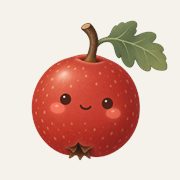
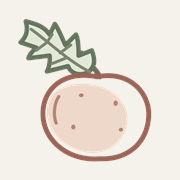
统一 G 手绘山楂与 Lora 品牌并更新 Windows 桌面包

diff --git a/src/App.tsx b/src/App.tsx
@@ -271,8 +271,8 @@ export default function App() {
   const disabled = status === 'loading' || status === 'saving' || loadError.current
   const isBlank = !journal.moments.length && !journal.goals.length && !journal.funds.length
   return <div className="app-shell">
-    <aside className="sidebar"><button className="brand" onClick={() => navigate('home')} aria-label="HawTend，返回我的手账"><span className="brand-symbol"><BrandMark size={44} /></span><span>HawTend<small>照料生活，慢慢生长</small></span></button><span className="sidebar-label">属于你的日子</span><nav aria-label="主要导航">{navItems.map(n => <button key={n.id} className={`nav-item ${page === n.id ? 'active' : ''}`} aria-current={page === n.id ? 'page' : undefined} onClick={() => navigate(n.id)}><Icon name={n.icon} />{n.label}{page === n.id && <span className="nav-dot" />}</button>)}</nav><div className="sidebar-note"><Icon name="sprout" size={27} /><p>不必把每一天填满，<br />慢慢走，也是在向前。</p><span>给未来的自己</span></div><div className="sidebar-bottom"><button className="settings-link" onClick={() => setPanel({ type: 'settings' })}><Icon name="settings" size={18} />手账设置</button><div className="profile"><span className="avatar">我</span><div><strong>我的人生手账</strong><small>{sampleMode ? "样例体验 · 虚构数据" : "个人空间 · 本机手账"}</small></div></div></div></aside>
-    <main className="main"><header className="topbar"><div className="breadcrumb">我的空间<span>/</span>{navItems.find(n => n.id === page)?.label}</div><span className="mobile-brand"><BrandMark size={29} />HawTend</span><div className="topbar-actions"><span className={`save-status ${status === 'failed' ? 'failed' : ''}`} role="status"><span className="status-dot" />{sampleMode ? '样例体验' : status === 'loading' ? '正在打开手账' : status === 'saving' ? '正在保存' : status === 'failed' ? '本地保存不可用' : !online ? '离线 · 本机保存' : '仅本机保存'}</span><button className="icon-button mobile-settings" aria-label="手账设置" onClick={() => setPanel({ type: 'settings' })}><Icon name="settings" size={18} /></button><button className="primary-button top-record" disabled={disabled} onClick={() => setPanel({ type: 'new' })}><Icon name="plus" size={17} />记下一刻</button></div></header>
+    <aside className="sidebar"><button className="brand" onClick={() => navigate('home')} aria-label="HawTend，返回我的手账"><span className="brand-symbol"><BrandMark size={36} /></span><span>HawTend<small>照料生活，慢慢生长</small></span></button><span className="sidebar-label">属于你的日子</span><nav aria-label="主要导航">{navItems.map(n => <button key={n.id} className={`nav-item ${page === n.id ? 'active' : ''}`} aria-current={page === n.id ? 'page' : undefined} onClick={() => navigate(n.id)}><Icon name={n.icon} />{n.label}{page === n.id && <span className="nav-dot" />}</button>)}</nav><div className="sidebar-note"><Icon name="sprout" size={27} /><p>不必把每一天填满，<br />慢慢走，也是在向前。</p><span>给未来的自己</span></div><div className="sidebar-bottom"><button className="settings-link" onClick={() => setPanel({ type: 'settings' })}><Icon name="settings" size={18} />手账设置</button><div className="profile"><span className="avatar">我</span><div><strong>我的人生手账</strong><small>{sampleMode ? "样例体验 · 虚构数据" : "个人空间 · 本机手账"}</small></div></div></div></aside>
+    <main className="main"><header className="topbar"><div className="breadcrumb">我的空间<span>/</span>{navItems.find(n => n.id === page)?.label}</div><span className="mobile-brand"><BrandMark size={28} />HawTend</span><div className="topbar-actions"><span className={`save-status ${status === 'failed' ? 'failed' : ''}`} role="status"><span className="status-dot" />{sampleMode ? '样例体验' : status === 'loading' ? '正在打开手账' : status === 'saving' ? '正在保存' : status === 'failed' ? '本地保存不可用' : !online ? '离线 · 本机保存' : '仅本机保存'}</span><button className="icon-button mobile-settings" aria-label="手账设置" onClick={() => setPanel({ type: 'settings' })}><Icon name="settings" size={18} /></button><button className="primary-button top-record" disabled={disabled} onClick={() => setPanel({ type: 'new' })}><Icon name="plus" size={17} />记下一刻</button></div></header>
       <div className="content"><div className="prototype-note"><span>{sampleMode ? '样例手账 · 虚构内容' : '我的手账 · 本机空间'}</span><button className="text-button" disabled={disabled} onClick={switchSample}>{sampleMode ? '回到我的手账' : '看看样例'}<Icon name="arrow" size={13} /></button></div>
       {sampleMode && <section className="sample-banner" aria-label="样例体验说明"><Icon name="book" size={23} /><div><strong>这是一本用来体验的样例手账</strong><p>可以自由试试。这里的修改不会保存，也不会加入你的个人手账。</p></div></section>}
       {status === 'failed' && <div className="notice" role="alert">{loadError.current ? '本地手账读取失败，暂不显示已存内容并暂停写入，防止覆盖已有数据。请刷新重试。' : '刚才的修改未保存，请在详情中重试。原有记录仍保留。'} <button className="text-button" onClick={exportData}>导出当前内容</button></div>}

diff --git a/src/styles.css b/src/styles.css
@@ -32,10 +32,10 @@ input, textarea, select { max-width: 100%; }
 svg { vertical-align: middle; }
 .app-shell { min-height: 100vh; }
 .sidebar { width: 232px; height: 100dvh; position: fixed; inset: 0 auto 0 0; padding: 39px 23px 20px; background: var(--sidebar); border-right: 1px solid var(--line); display: flex; flex-direction: column; z-index: 10; }
-.brand { display: flex; gap: 8px; align-items: center; text-align: left; padding: 0 0 42px 0; font-family: Georgia, 'Times New Roman', serif; font-size: 26px; font-weight: 600; letter-spacing: -.9px; white-space: nowrap; }
-.brand-symbol { width: 44px; height: 48px; display: grid; place-items: center; flex-shrink: 0; }
+.brand { display: flex; gap: 11px; align-items: center; text-align: left; padding: 0 0 42px 0; font-family: var(--brand-font); font-size: 25px; font-weight: var(--brand-weight); letter-spacing: var(--brand-tracking); color: var(--brand-color); font-optical-sizing: auto; white-space: nowrap; }
+.brand-symbol { width: 36px; height: 44px; display: grid; place-items: center; flex-shrink: 0; }
 .brand-mark { display: block; object-fit: contain; flex-shrink: 0; }
-.brand small { display: block; margin-top: 8px; font: 10px/1.4 'Microsoft YaHei', sans-serif; letter-spacing: 1px; color: var(--muted); }
+.brand small { display: block; margin-top: 7px; font: 9px/1.4 'Microsoft YaHei', sans-serif; letter-spacing: .5px; color: #818778; }
 .sidebar-label { font-size: 10px; color: var(--muted); padding: 0 14px 15px; letter-spacing: 2px; }
 .sidebar nav { display: flex; flex-direction: column; gap: 9px; }
 .nav-item { display: flex; align-items: center; gap: 13px; min-height: 49px; padding: 11px 15px; text-align: left; font-size: 14px; border-radius: 9px; color: #6b7365; }
@@ -337,7 +337,6 @@ input[type='range'] { accent-color: var(--accent); height: 24px; cursor: pointer
 @media (min-width: 1600px) { .welcome { padding: 37px 50px; } .welcome h1 { font-size: 43px; } .landscape { max-width: 400px; } }
 @media (max-width: 1200px) and (min-width: 761px) {
   .sidebar { width: 200px; padding: 32px 17px 20px; } .main { margin-left: 200px; } .topbar { margin: 0 29px; } .content { padding: 23px 29px 0; }
-  .brand { padding-left: 0; gap: 6px; font-size: 24px; } .brand small { font-size: 9px; letter-spacing: 0; }
   .welcome { padding: 29px 27px; gap: 15px; } .welcome h1 { font-size: 30px; }
   .overview-stats { gap: 0; } .overview-stats > div { padding: 0 14px; } .overview-stats strong { font-size: 28px; }
   .home-bottom { gap: 21px; } .section-heading h2 { font-size: 17px; } .reflection-card { padding: 18px; }
@@ -350,7 +349,7 @@ input[type='range'] { accent-color: var(--accent); height: 24px; cursor: pointer
   .sidebar, .breadcrumb, .top-record { display: none; }
   .main { margin-left: 0; }
   .topbar { height: 67px; margin: 0 22px; gap: 10px; }
-  .mobile-brand { display: flex; align-items: center; gap: 6px; color: var(--accent); font: 600 22px Georgia, 'Times New Roman', serif; letter-spacing: -.8px; white-space: nowrap; }
+  .mobile-brand { display: flex; align-items: center; gap: 7px; color: var(--brand-color); font: var(--brand-weight) 21px var(--brand-font); letter-spacing: var(--brand-tracking); font-optical-sizing: auto; white-space: nowrap; }
   .mobile-settings { display: inline-flex; }
   .icon-button, .primary-button, .quiet-button { min-height: 44px; }
   .icon-button { min-width: 44px; }

diff --git a/index.html b/index.html
@@ -7,8 +7,8 @@
     <meta name="description" content="HawTend，把目标、积蓄与值得记住的日子，放在同一条人生时间轴上。" />
     <meta name="apple-mobile-web-app-capable" content="yes" />
     <meta name="apple-mobile-web-app-status-bar-style" content="default" />
-    <link rel="icon" type="image/png" sizes="32x32" href="/hawtend-favicon-32.png" />
-    <link rel="apple-touch-icon" sizes="180x180" href="/hawtend-apple-touch-180.png" />
+    <link rel="icon" type="image/png" sizes="32x32" href="/hawtend-favicon-32.png?v=g1" />
+    <link rel="apple-touch-icon" sizes="180x180" href="/hawtend-apple-touch-180.png?v=g1" />
     <link rel="manifest" href="/manifest.webmanifest" />
     <title>HawTend · 人生手账</title>
   </head>

diff --git a/src/Icons.tsx b/src/Icons.tsx
@@ -1,9 +1,8 @@
 import type { CSSProperties } from 'react'
-import hawtendMark from './assets/hawtend-mark-128.png'
-import { brandPreview, brandProposals } from './brand-proposals'
+import hawtendMark from './assets/hawtend-mark.svg'
 
 export function BrandMark({ size = 40 }: { size?: number }) {
-  return <img className="brand-mark" src={brandPreview ? brandProposals[brandPreview].mark : hawtendMark} width={size} height={size} alt="" aria-hidden="true" draggable={false} />
+  return <img className="brand-mark" src={hawtendMark} width={size} height={size} alt="" aria-hidden="true" draggable={false} />
 }
 
 export function Icon({ name, size = 20, style, className }: { name: string; size?: number; style?: CSSProperties; className?: string }) {

diff --git a/src/main.tsx b/src/main.tsx
@@ -2,10 +2,7 @@ import React from 'react'
 import ReactDOM from 'react-dom/client'
 import App from './App'
 import './styles.css'
-import './brand-proposals.css'
-import { brandPreview } from './brand-proposals'
-
-if (brandPreview) document.documentElement.dataset.brandPreview = brandPreview
+import './brand.css'
 
 ReactDOM.createRoot(document.getElementById('root')!).render(<React.StrictMode><App /></React.StrictMode>)
 

diff --git a/src/brand.css b/src/brand.css
@@ -1,0 +1,18 @@
+@font-face {
+  font-family: 'HawLora';
+  src: url('./assets/fonts/lora-latin.woff2') format('woff2');
+  font-style: normal;
+  font-weight: 400 600;
+  font-display: swap;
+}
+
+:root {
+  --brand-font: 'HawLora', serif;
+  --brand-weight: 450;
+  --brand-tracking: -.65px;
+  --brand-color: #506455;
+}
+
+@media (max-width: 360px) {
+  .mobile-brand { font-size: 20px; }
+}

diff --git a/windows/HawTend.cs b/windows/HawTend.cs
@@ -13,7 +13,7 @@ using System.Windows.Forms;
 
 [assembly: AssemblyTitle("HawTend")]
 [assembly: AssemblyDescription("HawTend 人生手账 · 本地桌面原型")]
-[assembly: AssemblyVersion("0.0.2.0")]
+[assembly: AssemblyVersion("0.0.3.0")]
 
 internal static class Program
 {

diff --git a/docs/14-G品牌统一与桌面更新.md b/docs/14-G品牌统一与桌面更新.md
@@ -1,0 +1,59 @@
+# HawTend：G 品牌统一与桌面更新
+
+日期：2026-10-05。用户确认“用方案 G，统一成这个”。默认应用现使用 **G 细线手绘山楂 + Lora 字体**。
+
+## 统一范围
+
+- 桌面侧栏与手机页头：保留已审阅的叶片、淡色果实与细线轮廓，字标使用本地 Lora、字重 450。
+- 浏览器 favicon、Apple 主屏幕图标、PWA 常规与可裁切图标：由同一份 SVG 生成，背景采用暖纸色。
+- Windows 0.0.3.0：内置新版页面、离线字体与图标；EXE 与托盘共享 G 图标资源，ICO 包含 16、32、48、256px 四个尺寸。
+- 默认网址与所有历史 `?brand=` 链接统一显示 G，候选切换代码已移除。历史图案和静态对照图继续保留。
+
+当前入口：[本机应用](http://127.0.0.1:4173/)、[Windows EXE](../releases/windows/HawTend.exe)。手机需后续 HTTPS 托管才能安装，当前手机截图是 Chromium 视口预览。
+
+个人记录、旧数据库与存储键未修改。个人手账继续从空白开始；“看看样例”继续使用独立的虚构内容。此次没有接入登录、云同步或部署云项目。
+
+## 资产与维护
+
+| 文件 | 作用 |
+| --- | --- |
+| [canonical SVG](../src/assets/hawtend-mark.svg) | 应用实际使用的矢量标记，与审阅时 G 的图形完全相同 |
+| [公开 SVG](../public/brand/hawtend-logo.svg) | 同源分发的矢量副本 |
+| [1024px 透明母版](../public/brand/hawtend-logo-source-1024.png) | 浏览器栅格化 SVG 得到，供图标缩放 |
+| [256px 透明 Logo](../public/brand/hawtend-logo-256.png) | 常规图案导出 |
+| [字标样式](../src/brand.css) | 自托管 Lora 和统一字体参数 |
+| [字体许可](../public/brand/font-licenses/Lora-OFL.txt) | 保留原字体许可；运行时无需外部字体请求 |
+
+`scripts/build-brand-icons.ps1` 通过 Playwright 将 SVG 渲染为透明母版，再用系统图像库生成各尺寸。没有重新绘制用户选定的图案。可裁切图标以 68% 画布尺寸绘制，图案位于中央 80% 直径的安全圆内，背景完全不透明。
+
+HTML 和清单中的图标地址增加 `?v=g1`，静态资源离线匹配忽略查询参数，已检查这些地址在断网时仍可加载。已安装的主屏幕图标和 Windows 图标是否即时刷新仍由系统缓存决定，本次没有验证 iPhone 实际安装。
+
+维护时由助手运行，Playwright CLI 需位于当前终端 PATH：
+
+```powershell
+$env:PATH = 'C:\Users\19620\.codex\tools\life-app-toolchain\node_modules\.bin;' + $env:PATH
+powershell.exe -NoProfile -ExecutionPolicy Bypass -File scripts/build-brand-icons.ps1
+npm run build
+powershell.exe -NoProfile -ExecutionPolicy Bypass -File scripts/build-windows.ps1 -SkipWebBuild
+powershell.exe -NoProfile -ExecutionPolicy Bypass -File scripts/inspect-windows-package.ps1
+```
+
+## 验证与交付
+
+| 检查 | 结果 |
+| --- | --- |
+| TypeScript、生产构建与 Windows 编译 | 通过 |
+| 默认页头 | 320、390、768、1024、1440px 均无页面横向溢出、品牌裁切或状态区重叠 |
+| 四个页面 | 桌面 1440px 与手机 390px 均使用 G + Lora，无页面横向溢出 |
+| 历史链接 | A/B/C/D/AC/A2/E/F/G/H 均显示统一的 G |
+| 离线重载 | 图案、Lora 和五个带版本查询参数的浏览器 / 安装图标正常显示，未捕获脚本或控制台错误 |
+| 图标文件 | 透明母版正常；可裁切图标完全不透明，图案未超出安全圆；ICO 四个尺寸有效 |
+| EXE 内置资源 | 只读反射检查通过；23 个内置文件的 SHA-256 均与生产构建一致，内置图标与生成的 ICO 一致 |
+
+本次尝试独立启动新版 EXE 的命令被自动审批拒绝，未执行。改用 .NET `ReflectionOnlyLoadFrom` 读取资源，不运行程序入口；页面显示在现有本机预览中检查。新版独立窗口启动、托盘退出和 iPhone Safari 实机检查没有因此被验证。首版的独立启动与存储测试记录见 [桌面版说明](10-Windows桌面版与空白手账.md)。
+
+当前 EXE：版本 **0.0.3.0**，**3,079,168 字节，约 2.94 MiB**。
+
[1 lines of base64/hex data omitted]
+
+本机截图：[空白桌面](../output/playwright/hawtend-approved-empty-1440.png)、[空白手机](../output/playwright/hawtend-approved-empty-390.png)、[样例桌面](../output/playwright/hawtend-approved-sample-1440.png)、[样例手机](../output/playwright/hawtend-approved-sample-390.png)。已目视检查桌面与手机效果；截图、构建产物与验证辅助文件位于忽略目录，不上传个人数据。

diff --git a/README.md b/README.md
@@ -1,6 +1,6 @@
 # HawTend · 人生管理 App
 
-整体需求审阅通过，用户已同意进入下一阶段。当前处于第 0 期：视觉设计、交互原型与可行性验证。用户已确认名称 **HawTend** 与 Lora 字体；A2 图案被要求重新设计，四种山楂风格等待审阅。本地 PWA 已更新名称，默认安装图标仍为首版。Supabase 账号连接已验证，免费项目与同步基础代码已准备；应用仍只保存本地数据。
+整体需求审阅通过，用户已同意进入下一阶段。当前处于第 0 期：视觉设计、交互原型与可行性验证。用户已确认名称 **HawTend**、**G 细线手绘山楂图案与 Lora 字体**；默认页面、手机页头、浏览器与 PWA 安装图标、Windows EXE 已统一更新。Supabase 账号连接已验证，免费项目与同步基础代码已准备；应用仍只保存本地数据。
 
 已确认：先供本人使用；界面温暖、有生活感，接近个人手账；Windows 与 iPhone 支持云端同步；UI 和交互质量为核心要求。
 
@@ -20,11 +20,11 @@
 
 GitHub 网页授权已成功，已创建 [Flying-Angels/hawtend](https://github.com/Flying-Angels/hawtend) 私有仓库并配置 `origin`；代码、文档和品牌资产已推送到 `main` 与 `codex/phase0-prototype`，见 [GitHub 接入记录](docs/07-GitHub版本管理接入.md)。依赖、构建产物、截图、个人账单、健康报告及密钥排除在版本库之外。Logo 原图、生成提示词和实际界面检查见 [HawTend 品牌与 Logo](docs/08-HawTend品牌与Logo.md)。
 
-当前品牌审阅：见 [山楂重新设计与四种风格](docs/13-山楂重新设计与四种风格.md)。可打开 [E 自然植物插画](http://127.0.0.1:4173/?brand=e)、[F 极简色块](http://127.0.0.1:4173/?brand=f)、[G 细线手绘](http://127.0.0.1:4173/?brand=g)、[H 单色版画](http://127.0.0.1:4173/?brand=h)。字体统一为已选定的 Lora；[首轮候选](docs/11-品牌候选与整页效果.md) 与 [A2](docs/12-山楂枝叶优化版.md) 保留历史记录。预览不修改保存设置或个人记录；默认品牌、安装图标和现有 EXE 待图标选定后统一更新。
+当前品牌已定稿：见 [G 品牌统一与桌面更新](docs/14-G品牌统一与桌面更新.md)，直接打开 [HawTend](http://127.0.0.1:4173/) 即为最终 G + Lora。所有旧 `?brand=` 链接也统一显示 G，不再切换候选。[四种风格](docs/13-山楂重新设计与四种风格.md)、[首轮候选](docs/11-品牌候选与整页效果.md) 与 [A2](docs/12-山楂枝叶优化版.md) 的静态效果图保留历史。此次只更新品牌与打包资源，个人记录与空白 / 样例规则维持原状。
 
 ## 开发与预览
 
-Windows 日常体验现在可直接双击 **`releases/windows/HawTend.exe`**，约 1.8 MiB，页面内置、免安装，使用现有 Edge 打开独立窗口，不需要运行开发命令。EXE 可以单独复制，个人手账仍在浏览器中，复制程序不会携带个人数据。完整说明、空白与样例规则及实际校验见 [Windows 桌面版与空白手账](docs/10-Windows桌面版与空白手账.md)。
+Windows 日常体验现在可直接双击 **`releases/windows/HawTend.exe`**，版本 0.0.3.0，约 2.94 MiB，页面内置、免安装，使用现有 Edge 打开独立窗口，不需要运行开发命令。EXE 可以单独复制，个人手账仍在浏览器中，复制程序不会携带个人数据。完整说明、空白与样例规则见 [Windows 桌面版与空白手账](docs/10-Windows桌面版与空白手账.md)；此次品牌与内置资源校验见 [G 统一记录](docs/14-G品牌统一与桌面更新.md)。
 
 在这台电脑上，直接双击项目根目录的 **`启动HawTend.cmd`**。它会复用已运行的预览，或在后台启动本机预览，然后打开浏览器；不需要手动输入命令或部署服务器。默认地址为 [打开 HawTend](http://127.0.0.1:4173/)。电脑重启后再次双击即可。
 

diff --git a/docs/10-Windows桌面版与空白手账.md b/docs/10-Windows桌面版与空白手账.md
@@ -2,9 +2,11 @@
 
 记录日期：2026-10-05。用户提出希望通过 EXE 在 Windows 直接打开，并让新账号从空白手账开始，现有展示内容作为独立样例保留。
 
+当前更新：0.0.3.0 已统一为 G 图案与 Lora 字体，见 [G 品牌统一与桌面更新](14-G品牌统一与桌面更新.md)。下面“实际验证”表记录首个桌面版的启动与数据测试；本次编译和内置资源检查已通过，未独立重启新版 EXE。
+
 ## Windows 打开方式
 
-本地已生成 **`releases/windows/HawTend.exe`**，大小 1,904,128 字节，约 1.8 MiB。可以双击，也可以单独复制这个 EXE 到其他文件夹；日常运行不依赖项目源码、Node.js、npm 或 PowerShell 启动脚本。当前电脑已有 Edge 和 .NET Framework，使用它们显示独立窗口与运行轻量启动器，没有新增付费服务。
+本地已生成 **`releases/windows/HawTend.exe`**，当前大小 3,079,168 字节，约 2.94 MiB。可以双击，也可以单独复制这个 EXE 到其他文件夹；日常运行不依赖项目源码、Node.js、npm 或 PowerShell 启动脚本。当前电脑已有 Edge 和 .NET Framework，使用它们显示独立窗口与运行轻量启动器，没有新增付费服务。
 
 页面、样式、图标和离线脚本作为 ZIP 资源内置于 EXE。启动后通过固定 `http://127.0.0.1:4173/` 显示页面，只监听本机回环地址，不对局域网或互联网开放。如果同地址已有正常的 HawTend，会复用它；其他程序占用端口时给出提示，不自动改地址。
 
@@ -38,7 +40,7 @@ Edge 存在时使用应用窗口打开；找不到 Edge 时使用默认浏览器
 | 旧数据与账号存储 | 在独立浏览器测试配置中运行真实存储函数；纯示例跳过、旧记录保留、旧键未覆盖、本机与账号 A/账号 B 隔离通过。这是客户端存储测试，不能代替登录与云端权限测试 |
 | 托盘退出、其他电脑、iPhone | 尚未完成实际交互验证；托盘图标资源可读取，不能据此宣称退出流程已实测 |
 
[2 lines of base64/hex data omitted]
 
 截图在忽略的 `output/playwright/`：`hawtend-empty-desktop.png`、`hawtend-empty-mobile.png`、`hawtend-sample-mobile.png`。所有新增验证记录都位于独立的自动化浏览器配置中，没有清理或写入用户的实际 Edge 手账。
 

diff --git a/docs/13-山楂重新设计与四种风格.md b/docs/13-山楂重新设计与四种风格.md
@@ -1,6 +1,6 @@
 # HawTend：山楂重新设计与四种风格
 
-日期：2026-10-05。状态：四套候选与实际页面渲染完成，等待审阅。英文 HawTend 字标继续采用已选定的 Lora。
+日期：2026-10-05。状态：用户已选定 **G 细线手绘山楂**，搭配此前选定的 Lora 字体，已完成 [默认页面、安装图标与 EXE 统一](14-G品牌统一与桌面更新.md)。下面保留四套候选的设计过程与当时的验证记录。
 
 ## 这次解决的问题
 
@@ -19,7 +19,7 @@
 | G · 细线手绘 | 叶脉线条、淡淡着色与果实外轮廓，接近纸上速写 | [预览 G](http://127.0.0.1:4173/?brand=g) | [桌面整页](../output/playwright/hawtend-brand-g-desktop.png) |
 | H · 单色版画 | 同一种暖棕色绘制果实和叶片，用留白表现刻痕与斑点 | [预览 H](http://127.0.0.1:4173/?brand=h) | [桌面整页](../output/playwright/hawtend-brand-h-desktop.png) |
 
-E 更适合先判断山楂形态是否符合预期，F 更简洁，G 较轻，H 偏旧书印刷感。这些是审阅候选，图标还未统一替换到安装图标与 Windows 包。
+当时的比较：E 偏植物插画，F 更简洁，G 较轻，H 偏旧书印刷感。上表中的旧预览链接现均显示最终 G；E/F/H 请查看保留的静态截图或独立 HTML。
 
 ## 对照图与手机效果
 
@@ -30,7 +30,7 @@ E 更适合先判断山楂形态是否符合预期，F 更简洁，G 较轻，H 
 
 独立 HTML 内嵌字体和图片，可直接双击打开。实际页面来自 1440 × 1080 桌面视口和 390 × 844 手机视口，完整桌面图还包含视口以下的页面。对照图上方放大品牌区，下方使用运行中的页面截图。
 
-截图与对照文档保留本机 `output/`，排除在 GitHub 之外。预览参数只影响展示，不改保存设置或个人记录；样例仍只在内存中运行。无参数入口暂保留首版品牌，选定后统一应用。
+截图与对照文档保留本机 `output/`，排除在 GitHub 之外。当时预览参数只影响展示，不改保存设置或个人记录。现在所有入口统一为 G；样例继续只在内存中运行。
 
 ## 资产与生成方式
 

diff --git a/docs/08-HawTend品牌与Logo.md b/docs/08-HawTend品牌与Logo.md
@@ -2,9 +2,9 @@
 
 ## 当前方向：简约与页面融合
 
-最新审阅：A2 的双果被认为像樱桃，五角星表达不清，用户要求重新设计不同风格。已完成 E/F/G/H 四套单果候选，见 [山楂重新设计与四种风格](13-山楂重新设计与四种风格.md)。字标继续使用已选定的 Lora，图标尚待选择。下面四套首轮候选和 A2 过程均为历史记录。
+最新决定：用户确认“用方案 G，统一成这个”。**G 细线手绘山楂 + Lora 字体**已用于默认页面、手机页头、浏览器与 PWA 安装图标、Windows EXE，见 [G 品牌统一与桌面更新](14-G品牌统一与桌面更新.md)。原生 SVG 保持审阅时的图形。下面首版、四套首轮候选与 A2 过程均为历史记录；通用图标输出文件已更新为 G，首版原图仍保留。
 
-2026-10-05，用户看过首版实际页面后，提出山楂角色与手账界面不搭配、字标需要更换。要求以融洽、简约为主，不限定可爱风。已完成四套原创矢量候选与真实页面渲染，见 [品牌候选与整页效果](11-品牌候选与整页效果.md)。用户随后明确选择 A 的山楂枝叶图案方向与 C 的 Lora 字体，排除 B/C/D 的图标；已进一步完成 [A2 优化版与整页效果](12-山楂枝叶优化版.md)。字标已选定，优化图标等待审阅；下文保留首版资产、生成过程与验证记录，作为历史版本。页面默认品牌与安装图标暂保留首版，候选通过独立预览链接查看。
+2026-10-05，用户看过首版实际页面后，提出山楂角色与手账界面不搭配、字标需要更换。要求以融洽、简约为主，不限定可爱风。已完成四套原创矢量候选与真实页面渲染，见 [品牌候选与整页效果](11-品牌候选与整页效果.md)。用户随后选择 A 的山楂枝叶方向与 C 的 Lora 字体，排除 B/C/D 的图标；[A2 优化版](12-山楂枝叶优化版.md) 后来也被要求重做，最终从 [E/F/G/H](13-山楂重新设计与四种风格.md) 中选定 G。下面保留首版资产、生成过程与验证记录。
 
 ## 首版记录
 
